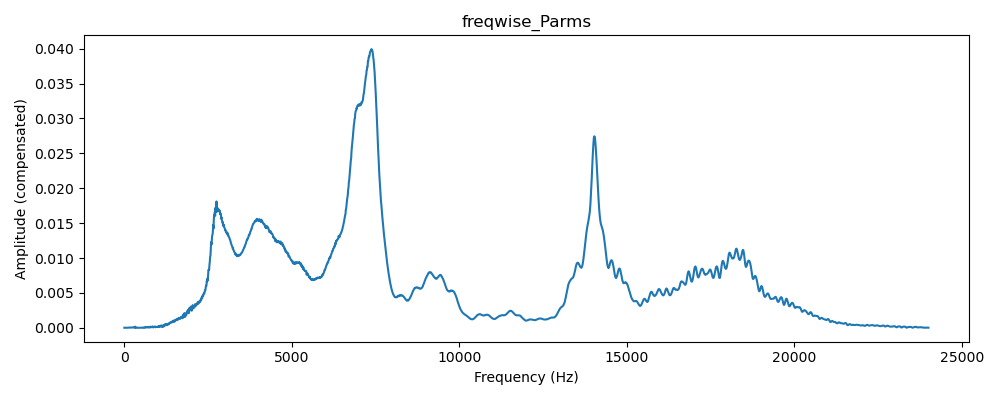
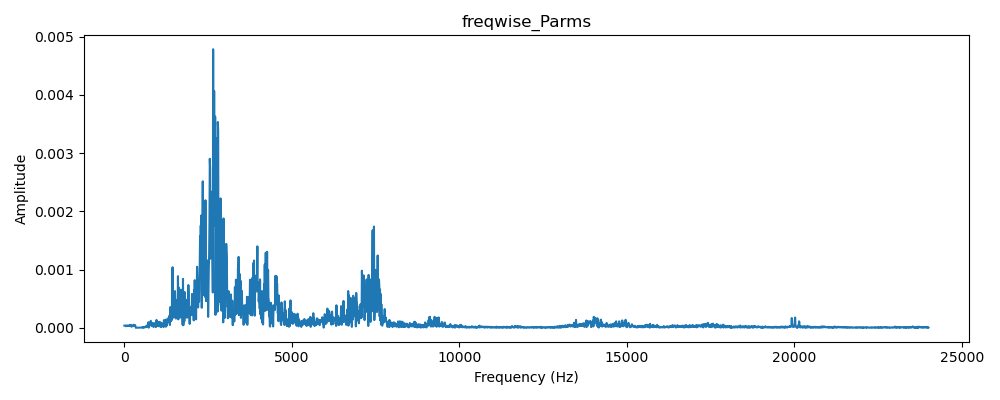
revised DAS and STFT

diff --git a/passive_robat/robat_py/functions/das_v2.py b/passive_robat/robat_py/functions/das_v2.py
@@ -1,7 +1,8 @@
 import numpy as np
-from scipy.signal import stft
+from scipy.signal import stft, ShortTimeFFT
 import time
 from matplotlib import pyplot as plt
+import librosa 
 
 def das_filter(y, fs, nch, d, bw, theta, c=343, wlen=64, show=False):    
   """
@@ -63,11 +64,76 @@ def das_filter(y, fs, nch, d, bw, theta, c=343, wlen=64, show=False):
   
   if show:
     ax.set_xlim((-np.pi/2, np.pi/2))
+    plt.ylabel('Magnitude (dB)')
     ax.set_title('Pseudospectra')
     ax.set_theta_offset(np.pi/2)
     plt.legend()
+    plt.savefig('das1_pseudospectra.png')
     plt.show()
     
   mag_p = np.abs(p)/len(bands)
   print('DAS computation time:', time.time() - time2)
   return theta, mag_p, f_spec_axis, spectrum, bands
+
+
+import numpy as np
+import matplotlib.pyplot as plt
+from numpy.lib.stride_tricks import sliding_window_view
+import time
+
+def fast_das_numpy(y, fs, nch, d, bw, theta, c=343, wlen=64, show=False):
+    time1 = time.time()
+
+    # -- Step 1: STFT using NumPy only --
+    y = np.asarray(y)
+    frames = sliding_window_view(y, window_shape=(wlen,), axis=0)  # shape: (n_frames, nch, wlen)
+    frames = frames.transpose(0, 2, 1)  # shape: (n_frames, wlen, nch)
+    spectrum = np.fft.rfft(frames, axis=1)  # (n_frames, n_freqs, nch)
+
+    n_freqs = spectrum.shape[1]
+    f_spec_axis = np.fft.rfftfreq(wlen, d=1/fs)  # frequencies corresponding to FFT bins
+
+    bands = f_spec_axis[(f_spec_axis >= bw[0]) & (f_spec_axis <= bw[1])]
+    band_idxs = np.where((f_spec_axis >= bw[0]) & (f_spec_axis <= bw[1]))[0]
+
+    p = np.zeros_like(theta, dtype=complex)
+    p_i = np.zeros_like(theta, dtype=complex)
+
+    if show:
+        fig, ax = plt.subplots(subplot_kw={'projection': 'polar'})
+
+    time2 = time.time()
+    print('STFT computation time:', time2 - time1)
+
+    for idx in band_idxs:
+        f_c = f_spec_axis[idx]
+
+        # Steering vector for all angles
+        w_s = 2 * np.pi * f_c * d * np.sin(np.deg2rad(theta)) / c
+        a = np.exp(np.outer(np.arange(nch), -1j * w_s))  # (nch, len(theta))
+        a_H = np.conj(a.T)  # (len(theta), nch)
+
+        spec = spectrum[:, idx, :]  # (n_frames, nch)
+        cov_est = np.cov(spec.T, bias=True)  # (nch, nch)
+
+        for i in range(len(theta)):
+            p_i[i] = a_H[i, :] @ cov_est @ a[:, i] / (nch ** 2)
+
+        p += p_i
+
+        if show:
+            ax.plot(np.deg2rad(theta), 10 * np.log10(np.abs(p_i)), label=f'{f_c:.1f} Hz')
+
+    if show:
+        ax.set_xlim((-np.pi/2, np.pi/2))
+        plt.ylabel('Magnitude (dB)')
+        ax.set_title('Pseudospectra')
+        ax.set_theta_offset(np.pi/2)
+        ax.legend()
+        plt.savefig('das2_pseudospectra.png')
+        plt.show()
+
+    mag_p = np.abs(p) / len(bands)
+    print('DAS computation time:', time.time() - time2)
+
+    return theta, mag_p, f_spec_axis, spectrum, f_spec_axis[band_idxs]

diff --git a/passive_robat/robat_py/AudioProcessor.py b/passive_robat/robat_py/AudioProcessor.py
@@ -1,4 +1,4 @@
-from functions.das_v2 import das_filter
+from functions.das_v2 import das_filter, fast_das_numpy
 from functions.music import music
 from functions.get_card import get_card 
 from functions.pow_two_pad_and_window import pow_two_pad_and_window
@@ -341,14 +341,15 @@ class AudioProcessor:
         dB_SPL_level = pascal_to_dbspl(total_rms_freqwise_Parms) #dB SPL level for reference channel
         print('db SPL:', dB_SPL_level)
 
-        # print('time to calculate dB SPL =', time.time() - start_time_4)
+        print('time to calculate dB SPL =', time.time() - start_time_4)
 
         start_time_5 = time.time()
         theta, spatial_resp, f_spec_axis, spectrum, bands = das_filter(in_sig, self.fs, self.channels, self.mic_spacing, [self.highpass_freq, self.lowpass_freq], theta=self.theta_das)
 
         print('freq axis', f_spec_axis.shape, 'bands shape', bands.shape, 'spectrum shape', spectrum.shape)
+
         # plt.figure(figsize=(10, 4))
-        # plt.plot(np.real(spectrum[:, self.ref]))
+        # plt.plot(f_spec_axis, np.abs(spectrum[:, self.ref, :]))
         # plt.title('DAS Spectrum')
         # plt.xlabel('Frequency (Hz)')
         # plt.ylabel('Amplitude ')

diff --git a/passive_robat/robat_py/functions/utilities.py b/passive_robat/robat_py/functions/utilities.py
@@ -9,8 +9,10 @@ Created April 2025
 @author: thejasvi
 """
 import numpy as np 
-import scipy.signal as signal 
+import scipy.signal as signal
+import scipy 
 from scipy.interpolate import interp1d
+import time
 
 def pascal_to_dbspl(X):
     '''
@@ -72,9 +74,11 @@ def calc_native_freqwise_rms(X, fs):
         fftfreqs holds the frequency bins from the RFFT
         freqwise_rms is the RMS value of each frequency bin. 
     '''
+    time1 = time.time()
     rfft = np.fft.rfft(X)
     fftfreqs = np.fft.rfftfreq(X.size, 1/fs)
     # now calculate the rms per frequency-band
+    print('RFFT computation time:', time.time() - time1)
     freqwise_rms = []
     for each in rfft:
         mean_sq_freq = np.sum(abs(each)**2)/rfft.size
